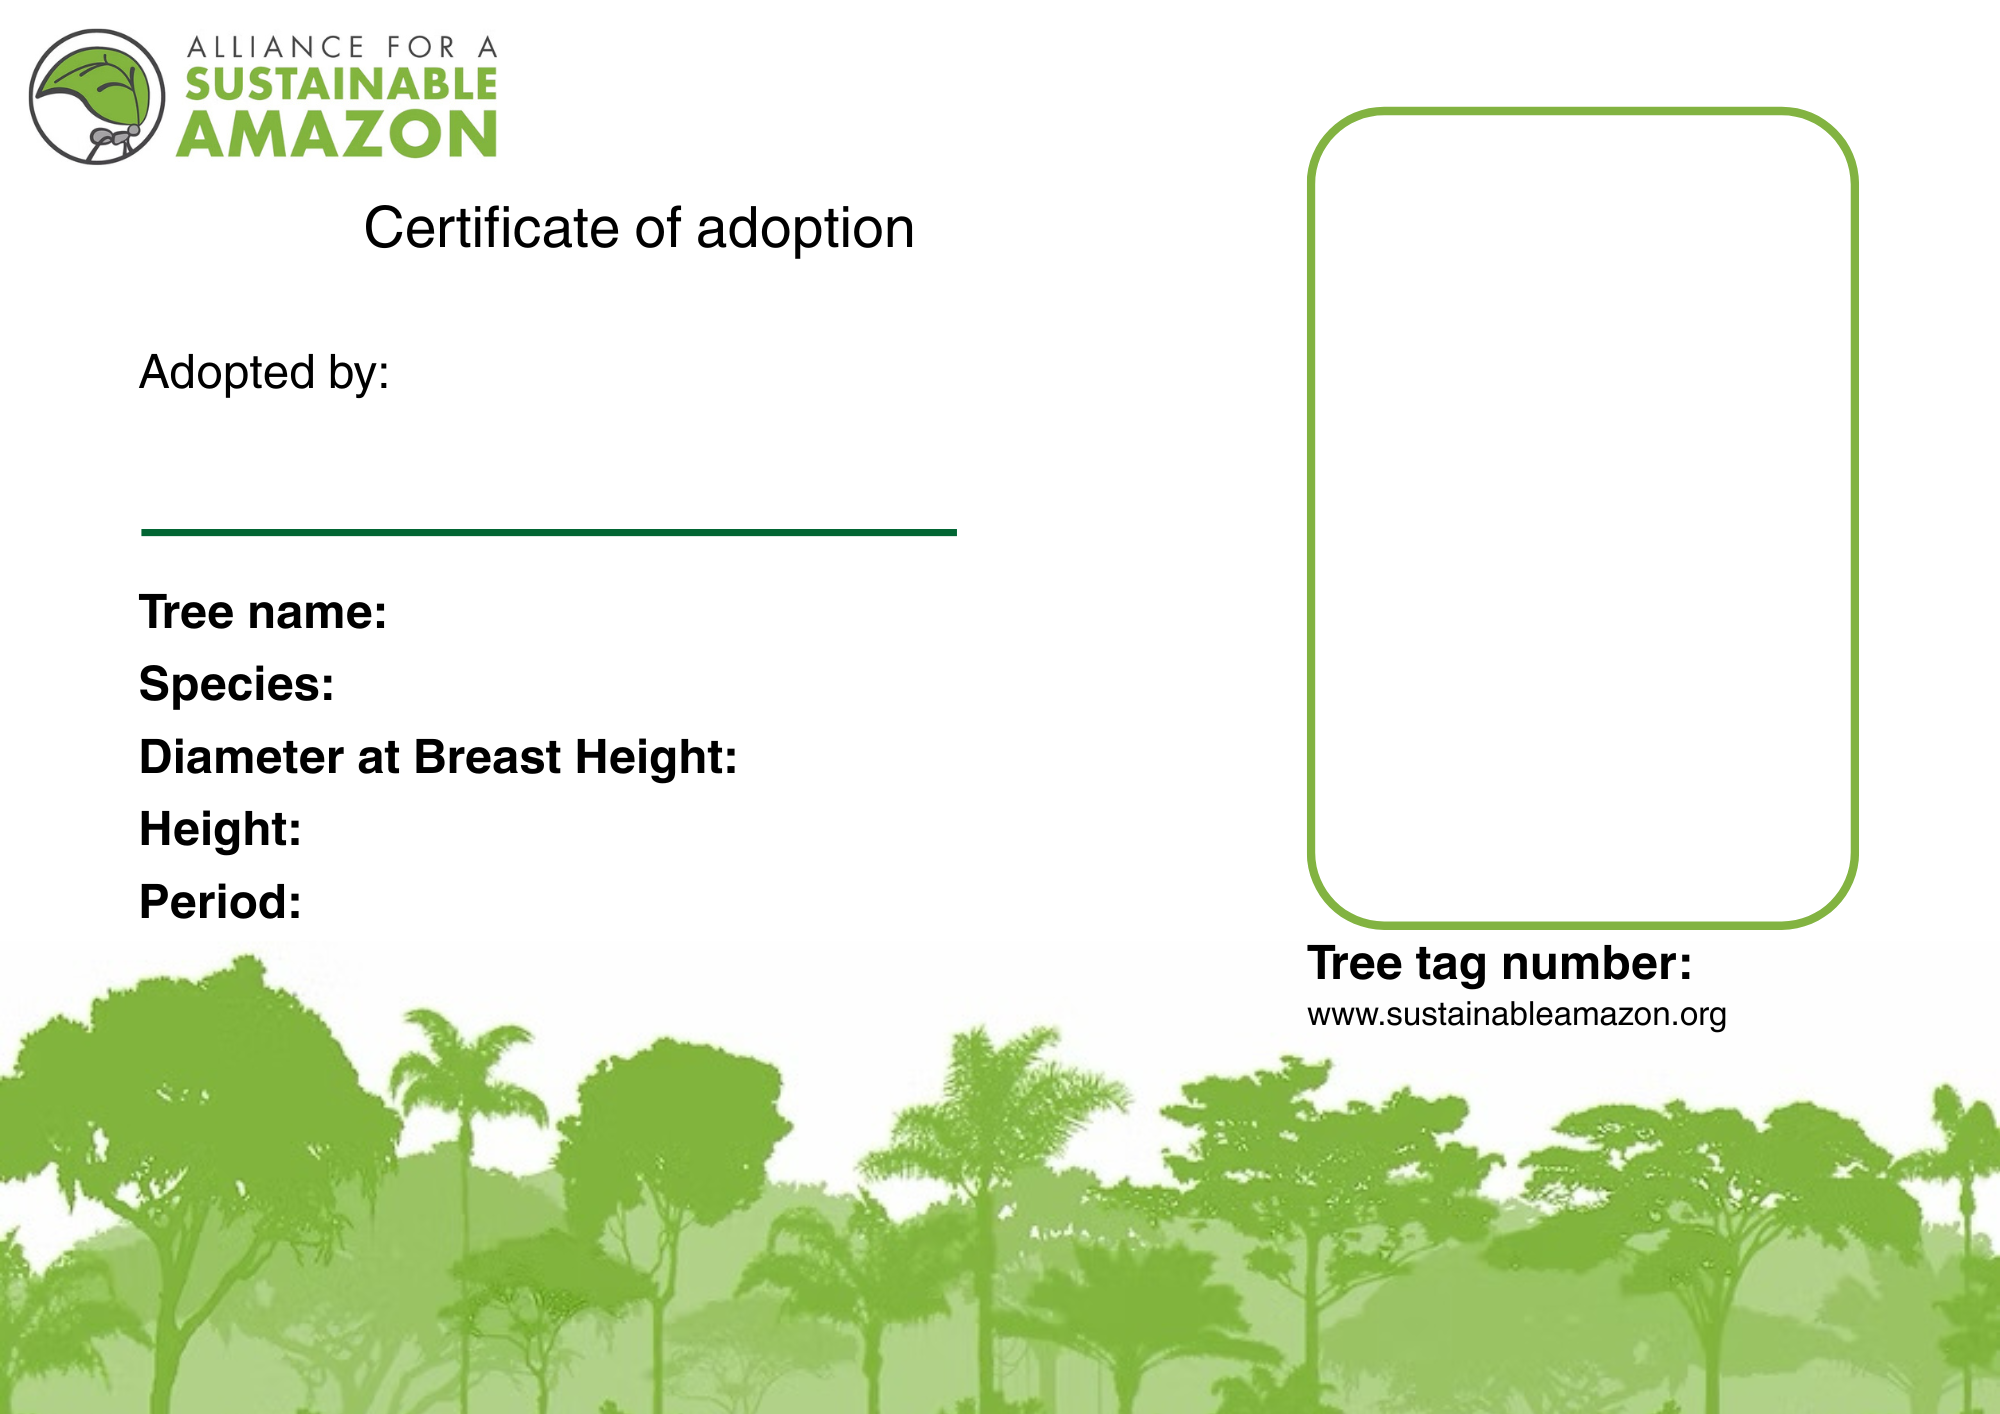
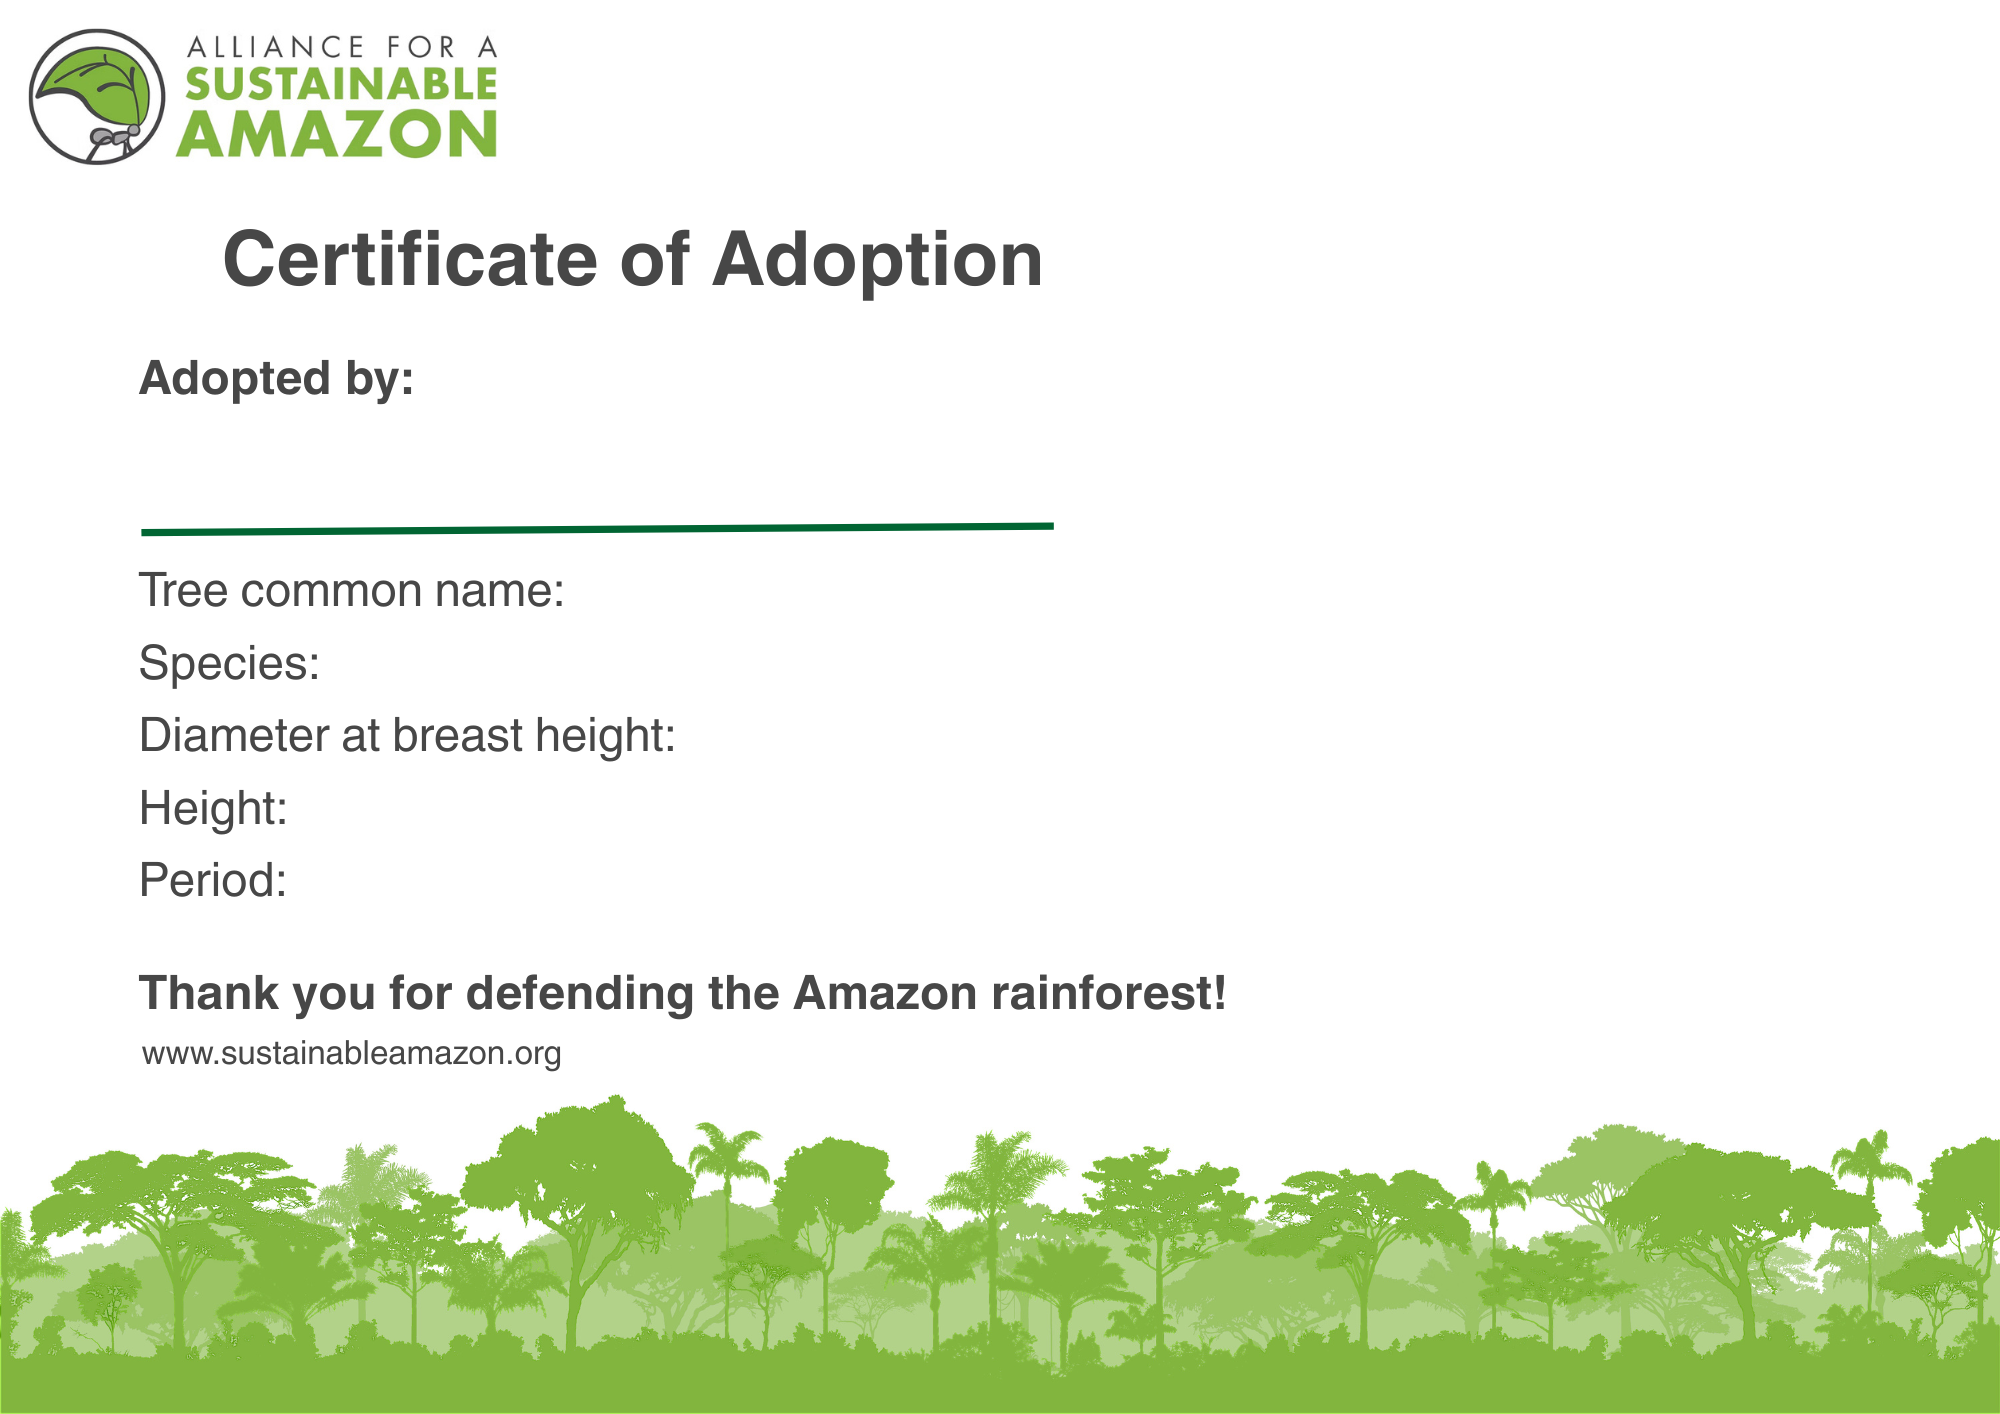
Final certificate implemented with functional emailing.
- Final form of the certificate added in.

- Fixed dates not being human readable on the certificate.

- Donations successfully email the final certificate.
  - NOTE: This is still using a test email, not the official email.

Changed region(s): [[0.0, 0.0622, 1.0, 1.0], [0.093, 0.1245, 0.527, 0.2178], [0.062, 0.2489, 0.217, 0.2801]]

diff --git a/trees/services/certificate_generator.py b/trees/services/certificate_generator.py
@@ -4,7 +4,7 @@ certificate_generator.py
 This file takes the certificate template and generates a customized certificate for each tree adopted.
 """
 
-import requests
+import requests, os
 from io import BytesIO
 from reportlab.pdfgen import canvas
 from reportlab.lib.utils import ImageReader
@@ -71,56 +71,59 @@ def generate_certificate(
     )
 
     # Remove bold and make text smaller for less significant data 
-    canv.setFont("Helvetica", 20)
+    canv.setFont("Helvetica", 14)
     # Tree ID
     canv.drawCentredString(
-        665,
-        182,
+        687,
+        190,
         f"Tree tag number: {tree_perm_id}"
     )
 
+    canv.setFont("Helvetica", 20)
     # Tree name
     canv.drawString(
-        170,
-        330,
+        245,
+        340,
         tree_name
     )
 
     # Tree species
     canv.drawString(
-        148,
-        300,
+        143,
+        309,
         tree_species
     )
 
     # Tree DBH
+    confirmed_tree_dbh = dot_for_null_check(tree_dbh)
     canv.drawString(
-        316,
-        270,
-        tree_dbh
+        293,
+        279,
+        confirmed_tree_dbh
     )
 
     # Tree height
+    confirmed_tree_height = dot_for_null_check(tree_height)
     canv.drawString(
-        133,
-        239,
-        tree_height
+        129,
+        248,
+        confirmed_tree_height
     )
 
     # Tree adoption period
     canv.drawString(
-        133,
-        208,
+        129,
+        218,
         f"{adoption_date} - {expiration_date}"
     )
 
     # Tree image
     draw_tree_image(
         canv,
-        554, # x-coord
-        207, # y-coord
+        574, # x-coord
+        150, # y-coord
         225, #width
-        338, #height
+        450, #height
         image_url=tree_image_url
     )
 
@@ -163,28 +166,53 @@ def draw_tree_image(
     """
     image_reader = None
 
+    # TODO: Remove this 
+    image_url = testing_image_path
+
     try:
-        response = requests.get(image_url, timeout=10)
-        response.raise_for_status()
+        # Checks whether file is from thee web or local. Used for local development.
+        if image_url.startswith(("http://", "https://")):
+            response = requests.get(image_url, timeout=10)
+            response.raise_for_status()
+            image_data = response.content
+        elif os.path.isfile(image_url):
+            with open(image_url, "rb") as f:
+                image_data = f.read()
+        else:
+            raise ValueError("image_url must be a valid URL or local file path")
 
         rounded_image = round_image_corners(
-            response.content,
-            radius=45
+            image_data,
+            radius=100
         )
 
         image_reader = ImageReader(rounded_image)
     except Exception as e:
+        print("Tree image error: ", e)
+
+        # Checks whether file is from thee web or local. Used to load 'no image' local file.
+        if placeholder_path.startswith(("http://", "https://")):
+            response = requests.get(placeholder_path, timeout=10)
+            response.raise_for_status()
+            image_data = response.content
+        elif os.path.isfile(placeholder_path):
+            with open(placeholder_path, "rb") as f:
+                image_data = f.read()
+        else:
+            raise ValueError("image_url must be a valid URL or local file path")
+
         if placeholder_path:
             try:
                 rounded_placeholder = round_image_corners(
                     placeholder_path,
-                    radius=90
+                    radius=45
                 )
 
                 image_reader = ImageReader(rounded_placeholder)
             except Exception:
                 image_reader = None
 
+    # If local placeholder fails, draw the "No Image" text instead. This is mostly a sanity check and should not occur.
     if image_reader is None:
         canvas.rect(
             x,
@@ -225,7 +253,7 @@ def draw_tree_image(
         mask='auto'
     )
 
-def round_image_corners(image_data, radius=25):
+def round_image_corners(image_data, radius):
     """
     Apply rounded corners to a given image while preserving transparency.
 
@@ -253,12 +281,60 @@ def round_image_corners(image_data, radius=25):
     # Apply the mask to the image's alpha channel
     image.putalpha(mask)
 
+    border_size = 10 # Increase for a thicker frame
+
+    # Create a larger transparent canvas
+    framed = Image.new(
+        "RGBA",
+        (
+            image.width + border_size * 2,
+            image.height + border_size * 2
+        ),
+        (0, 0, 0, 0)
+    )
+
+    draw = ImageDraw.Draw(framed)
+
+    # Prevents white pixels being seen around corners
+    inset = 2
+
+    draw.rounded_rectangle(
+        (
+            inset,
+            inset,
+            framed.width - inset - 1,
+            framed.height - inset - 1
+        ),
+        radius=radius + border_size,
+        outline=(39, 93, 54, 255),
+        width=border_size
+    )
+
+    # Paste the rounded image into the center
+    framed.paste(
+        image,
+        (border_size, border_size),
+        image
+    )
+
     output = BytesIO()
 
     # Save as PNG so transparency is reserved
-    image.save(output, format = "PNG")
-    image.close()
+    framed.save(output, format="PNG", optimize=False)
 
     output.seek(0)
 
     return output
+
+def dot_for_null_check(param):
+    """
+        Helper function that formats unknown fields that are deonatated with a '.' to say 'Unknown' for a 
+        better user experience.
+
+        Parameters:
+            param: String passed in from database
+    """
+    if param == ".":
+        param = "Unknown"
+
+    return param

diff --git a/trees/views.py b/trees/views.py
@@ -429,10 +429,10 @@ def stripe_webhook(request):
                 if blob_exists(blob_name):
                     image_url = (f"https://{AZURE_BLOB_STORAGE}.blob.core.windows.net/{AZURE_BLOB_CONTAINER}/{blob_name}")
 
-                temp_file = tempfile.NamedTemporaryFile(
-                    suffix=".pdf",
-                    delete=False
-                )
+
+                # Make dates human readable 
+                format_adoption_date = donation.date.strftime("%d/%m/%Y")
+                format_expiration_date = donation.expiration_date.strftime("%d/%m/%Y")
 
                 try:
                     # Generate the user's certificate AFTER database changes to ensure PDF and email aren't sent
@@ -444,8 +444,8 @@ def stripe_webhook(request):
                         tree_perm_id=tree.permanent_tag,
                         tree_height=tree.height,
                         tree_dbh=tree.dbh,
-                        adoption_date=donation.date,
-                        expiration_date=donation.expiration_date,
+                        adoption_date=format_adoption_date,
+                        expiration_date=format_expiration_date,
                         tree_image_url=image_url,
                     )
 

diff --git a/trees/management/commands/test_rounding.py b/trees/management/commands/test_rounding.py
@@ -1,0 +1,30 @@
+from django.core.management.base import BaseCommand
+from PIL import Image, ImageDraw
+
+class Command(BaseCommand):
+    help = "Test Pillow rounded corner rendering"
+
+    def handle(self, *args, **kwargs):
+        WIDTH = 667
+        HEIGHT = 1000
+
+        for radius in [10, 50, 100, 200, 300]:
+            image = Image.new("RGBA", (WIDTH, HEIGHT), "green")
+
+            mask = Image.new("L", image.size, 0)
+            draw = ImageDraw.Draw(mask)
+
+            draw.rounded_rectangle(
+                [(0, 0), (WIDTH, HEIGHT)],
+                radius=radius,
+                fill=255
+            )
+
+            image.putalpha(mask)
+
+            filename = f"rounded_{radius}.png"
+            image.save(filename)
+
+            self.stdout.write(f"Saved {filename}")
+
+        self.stdout.write(self.style.SUCCESS("Done"))
